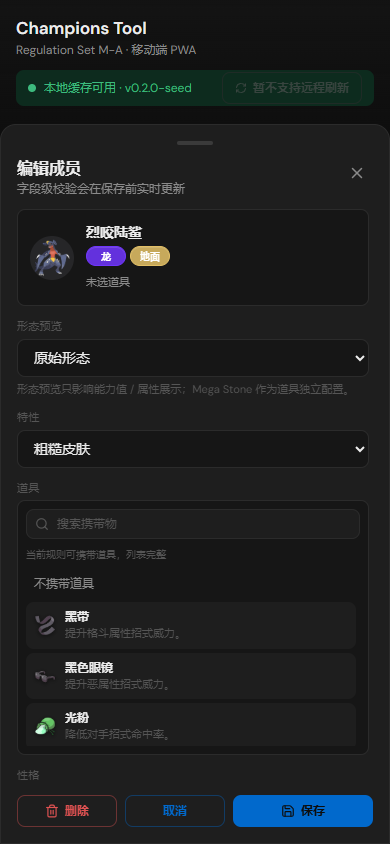
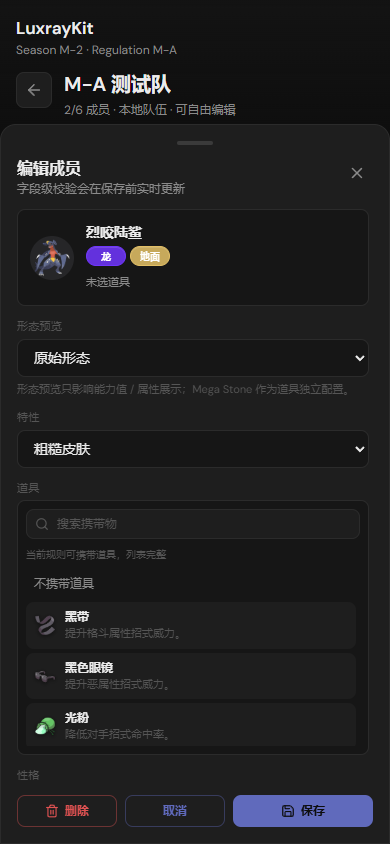
Update LuxrayKit branding

Changed region(s): [[0.0308, 0.0, 0.9846, 0.154], [0.5846, 0.9242, 0.9538, 0.9858], [0.4, 0.955, 0.4923, 0.9858]]

diff --git a/src/branding.ts b/src/branding.ts
@@ -1,0 +1,7 @@
+export const productName = 'LuxrayKit';
+
+export const currentSeasonLabel = 'Season M-2';
+
+export const currentRegulationLabel = 'Regulation M-A';
+
+export const productContextLabel = `${currentSeasonLabel} · ${currentRegulationLabel}`;

diff --git a/src/components/Header.tsx b/src/components/Header.tsx
@@ -1,5 +1,5 @@
 import type { LucideIcon } from 'lucide-react';
-import { currentRuleSet } from '../data/seed/regMA/metadata';
+import { productContextLabel, productName } from '../branding';
 import { IconButton } from './ui';
 
 export function Header({
@@ -14,8 +14,8 @@ export function Header({
   return (
     <header className="mb-3 flex items-center justify-between">
       <div>
-        <h1 className="text-[17px] font-semibold tracking-normal">Champions Tool</h1>
-        <p className="text-xs text-textSecondary">{currentRuleSet.name} · 移动端 PWA</p>
+        <h1 className="text-[17px] font-semibold tracking-normal">{productName}</h1>
+        <p className="text-xs text-textSecondary">{productContextLabel}</p>
       </div>
       {rightIcon && onRightClick ? <IconButton icon={rightIcon} label={rightLabel} onClick={onRightClick} /> : null}
     </header>

diff --git a/src/lib/teamImage.ts b/src/lib/teamImage.ts
@@ -1,5 +1,6 @@
 import { abilities, items, moves } from '../data';
 import type { PokemonType, Team } from '../types';
+import { productName } from '../branding';
 import { getMemberBattleForm } from './pokemonForms';
 
 const typeLabels: Record<PokemonType, string> = {
@@ -211,7 +212,7 @@ export function createTeamShareImage(
       <rect width="1200" height="760" fill="#0d0d0d" />
       <rect x="24" y="24" width="1152" height="712" rx="28" fill="#111111" stroke="#2b2b2b" />
       <text x="48" y="66" font-size="34" font-weight="850" fill="#f5f5f5">${escapeXml(team.name)}</text>
-      <text x="48" y="96" font-size="16" fill="#a1a1aa">Champions Tool · 生成时间 ${escapeXml(generatedAt)}</text>
+      <text x="48" y="96" font-size="16" fill="#a1a1aa">${productName} · 生成时间 ${escapeXml(generatedAt)}</text>
       <text x="1030" y="94" font-size="16" text-anchor="end" fill="#6fa8ff">${team.members.length}/6</text>
       ${slots.map((slot, index) => renderSlot(slot, index, options)).join('')}
     </svg>
@@ -219,7 +220,7 @@ export function createTeamShareImage(
   const day = now.toISOString().slice(0, 10);
   return {
     dataUrl: `data:image/svg+xml;charset=utf-8,${encodeURIComponent(svg)}`,
-    filename: `champions-team-${slugTeamName(team.name)}-${day}.svg`,
+    filename: `luxraykit-team-${slugTeamName(team.name)}-${day}.svg`,
   };
 }
 

diff --git a/index.html b/index.html
@@ -4,9 +4,9 @@
     <meta charset="UTF-8" />
     <meta name="viewport" content="width=device-width, initial-scale=1.0, viewport-fit=cover" />
     <meta name="theme-color" content="#141414" />
-    <meta name="description" content="Pokémon Champions Regulation Set M-A 移动端对战助手" />
+    <meta name="description" content="LuxrayKit · Pokémon Champions Season M-2 / Regulation M-A 对战助手" />
     <link rel="manifest" href="/manifest.webmanifest" />
-    <title>Champions Tool</title>
+    <title>LuxrayKit</title>
   </head>
   <body>
     <div id="root"></div>

diff --git a/src/App.test.tsx b/src/App.test.tsx
@@ -102,6 +102,9 @@ describe('App page flows', () => {
     expect(screen.getByText('正在载入本地缓存与规则数据...')).toBeTruthy();
     expect(screen.queryByText(/模拟数据/)).toBeNull();
     expect(await screen.findByRole('heading', { name: '环境' })).toBeTruthy();
+    expect(screen.getByText('LuxrayKit')).toBeTruthy();
+    expect(screen.getByText('Season M-2 · Regulation M-A')).toBeTruthy();
+    expect(screen.queryByText(/移动端 PWA/)).toBeNull();
   });
 
   it('navigates bottom tabs and keeps the teams tab focused on local teams', { timeout: 15000 }, async () => {

diff --git a/src/App.tsx b/src/App.tsx
@@ -3,6 +3,7 @@ import { lazy, Suspense, useCallback, useEffect, useMemo, useState } from 'react
 import { BottomNav } from './components/BottomNav';
 import { Header } from './components/Header';
 import { Button } from './components/ui';
+import { productName } from './branding';
 import type { EnvironmentState, EnvironmentTeamSample } from './data/environment';
 import { AppProvider, useAppStore } from './state/AppContext';
 import type { Team } from './types';
@@ -236,7 +237,7 @@ function AppShell() {
   ]);
 
   useEffect(() => {
-    document.title = overlay === 'rule' ? '当前规则 · Champions Tool' : 'Champions Tool';
+    document.title = overlay === 'rule' ? `当前规则 · ${productName}` : productName;
   }, [overlay]);
 
   useEffect(() => {

diff --git a/src/lib/teamImage.test.ts b/src/lib/teamImage.test.ts
@@ -24,9 +24,10 @@ describe('team image generation', () => {
     });
     const svg = decodeURIComponent(image.dataUrl.replace('data:image/svg+xml;charset=utf-8,', ''));
 
-    expect(image.filename).toBe('champions-team-m-a-2026-06-03.svg');
+    expect(image.filename).toBe('luxraykit-team-m-a-2026-06-03.svg');
     expect(svg).toContain('<svg');
     expect(svg).toContain('M-A 测试队');
+    expect(svg).toContain('LuxrayKit');
     expect(svg).toContain('生成时间 2026-06-03 12:34');
     expect(svg).toContain('炽焰咆哮虎');
     expect(svg).toContain('文柚果');